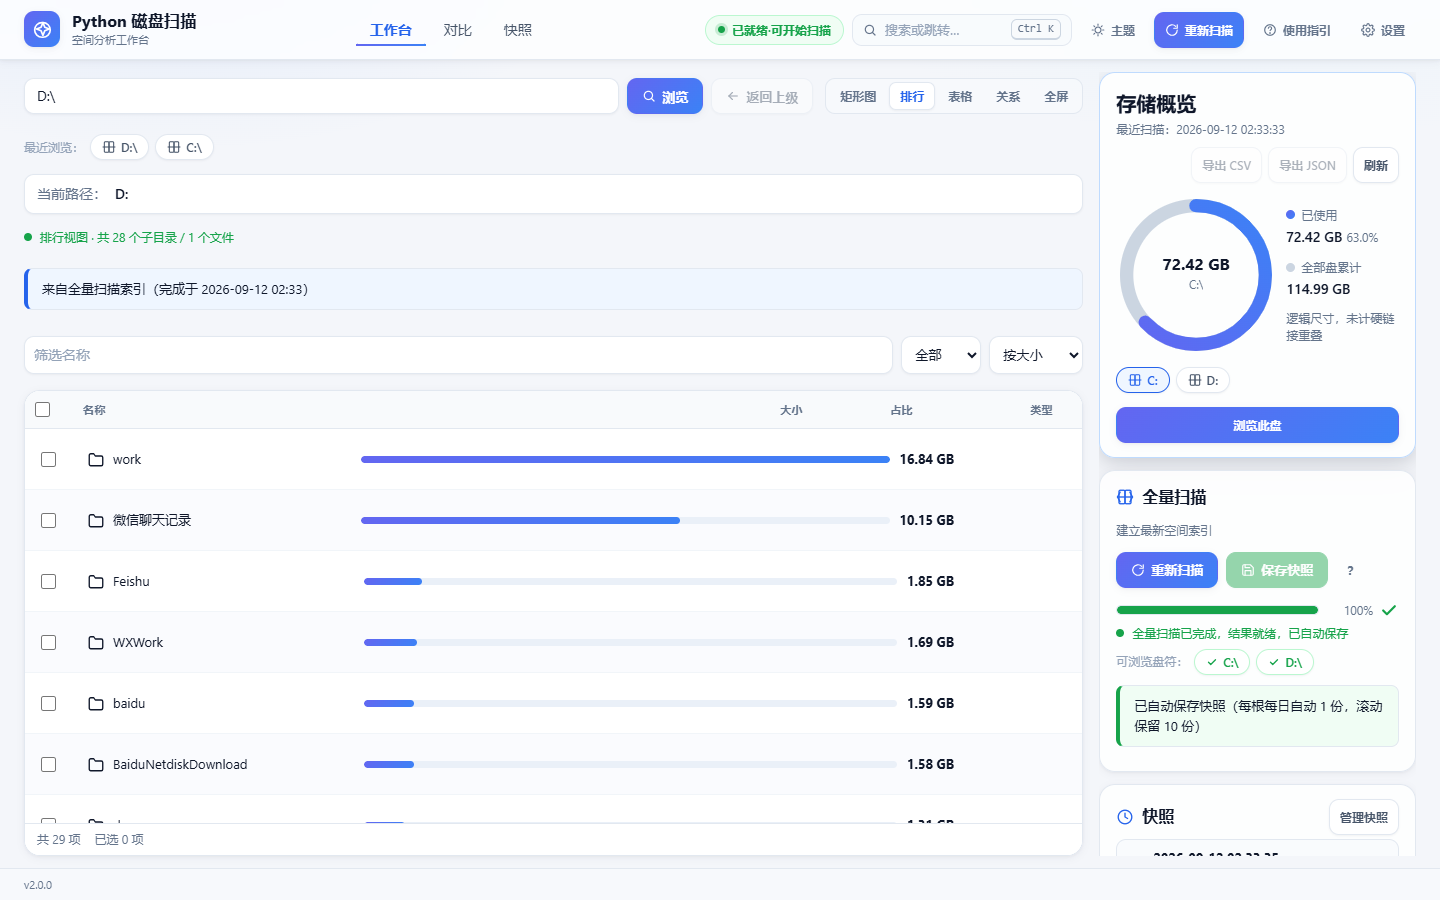
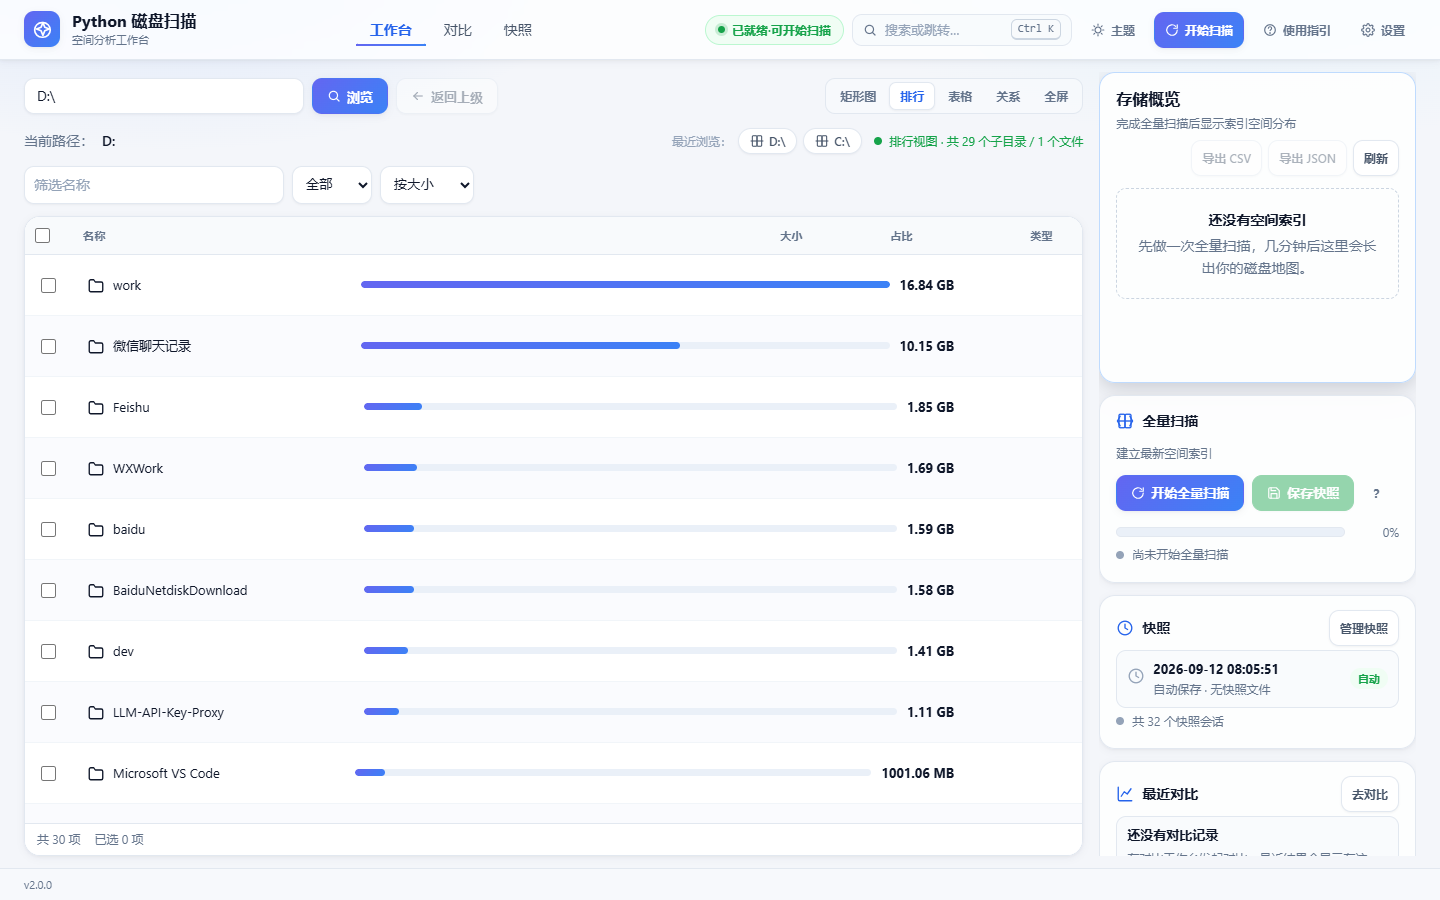
R1 第二轮（结构级）：布局压缩 + 矩形图淡彩卡片化 + 静态资源缓存破除
- index.html：css/js 引入加 ?v=r1.1 版本号（修「改了看不到」的浏览器缓存根因）
- app.py：/static/* 响应 Cache-Control: no-cache（after_request，仅静态路径）
- 工作台主列结构重组（id/class 断言面不变，smoke 21/21 仍绿）：
  · 路径输入收窄 280px + 视图 seg 同行；最近浏览/面包屑/状态行合并为单行 meta-row
  · 面包屑去框文本化；筛选行收薄（输入定宽 260px）；浏览历史下拉锚入 .path-row
- 卡片标题层级收敛（fs-lg→fs-md 650 字重；概览卡 fs-xl→fs-lg）
- 对比页控件组面板化（独立卡片行）；快照页根路径 code → 主色徽标
- viz/treemap.js：单元格纯色满铺 → R1 淡彩渐变圆角卡（JS 混色 26%→12%，
  彩色细边，hover 主色描边+提亮叠层，文字走 --treemap-ink，GAP 1→4）
- tokens.css：aurora 氛围光浓度提升（light .10→.14/.16，dark .08/.06→.14/.10）
- 验证：unittest 356 绿；smoke suite=v2 21/21；亮暗双主题真实数据截图复核

diff --git a/web/static/css/style.css b/web/static/css/style.css
@@ -140,6 +140,13 @@ input:focus{outline:none;border-color:var(--primary);box-shadow:0 0 0 3px var(--
 .tool-row{flex:none;height:48px;display:flex;align-items:center;gap:12px;min-width:0}
 .path-row{flex:1;min-width:0;display:flex;align-items:center;gap:8px;position:relative} /* 阶段G G-3：下拉面板锚点 */
 .path-row input{min-width:0}
+.path-row #browse-root{max-width:280px}
+
+/* R1：元信息行（面包屑 + 最近浏览 chips + 状态行 三合一；替代原三条堆叠整行） */
+.meta-row{display:flex;align-items:center;gap:var(--space-3);flex-wrap:wrap;min-height:26px}
+.meta-row .breadcrumb{flex:1;min-width:0;margin:0;padding:0;background:transparent;border:0;box-shadow:none;min-height:0}
+.meta-row .chips-row{margin:0;flex:none}
+.meta-row .status-line{margin:0 0 0 auto;flex:none;max-width:40%}
 /* R1：视图工具栏升级为分段控件（seg）——容器药丸底 + 内部按钮无边框；
    激活态 = .btn-primary（JS 切换类名不变），改为「白底+主色字+细边」的 seg 选中片 */
 .view-toolbar{
@@ -296,9 +303,11 @@ input:focus{outline:none;border-color:var(--primary);box-shadow:0 0 0 3px var(--
 .session-head{display:flex;align-items:center;justify-content:space-between;gap:var(--space-2);min-width:0}
 .session-title{display:flex;align-items:center;gap:var(--space-2);font-weight:600;min-width:0}
 .session-sub{font-size:var(--fs-xs);color:var(--faint);word-break:break-all}
-.session-roots{list-style:none;margin:var(--space-2) 0 0;padding:0;display:flex;flex-direction:column;gap:var(--space-2);font-size:var(--fs-xs)}
-.session-roots li{display:flex;align-items:center;gap:var(--space-2);min-width:0;flex-wrap:wrap}
-.session-roots code{font-size:var(--fs-xs);background:var(--card-soft);border:1px solid var(--border);border-radius:var(--radius-sm);padding:2px var(--space-2);word-break:break-all;color:var(--text-2)}
+.session-roots{list-style:none;margin:var(--space-2) 0 0;padding:0;display:flex;flex-direction:column;gap:var(--space-1);font-size:var(--fs-xs)}
+.session-roots li{display:flex;align-items:center;gap:var(--space-2);min-width:0;flex-wrap:wrap;padding:6px var(--space-2);border-radius:var(--radius-md)}
+.session-roots li:hover{background:var(--row-alt)}
+/* R1：根路径 code 升级为彩色盘符徽标（primary-soft 底 + 主色字 + 圆角） */
+.session-roots code{font-size:var(--fs-xs);font-weight:600;background:var(--primary-soft);border:1px solid var(--primary-border);border-radius:var(--radius-sm);padding:2px var(--space-2);word-break:break-all;color:var(--primary)}
 .skip-reason{color:var(--warning);cursor:help}
 /* P6（D6-2/变更集3）：会话行 = 「盘符 · 大小」正文 + 行尾动作；原始文件名进「详情」 */
 .session-root-row{padding:var(--space-1) 0}
@@ -323,7 +332,14 @@ input:focus{outline:none;border-color:var(--primary);box-shadow:0 0 0 3px var(--
    P5（D5-1/D5-2）：原「基线 datalist + 目标只读」两控件改为
    「对比基准（历史快照）下拉 + 当前磁盘状态只读文本行」。 */
 /* ============================================================ */
-.page-head-compare{min-height:64px}
+.page-head-compare{min-height:0}
+/* R1：控件组面板化——独立卡片行（原散排在页头右侧，观感 demo） */
+.page-head-compare{flex-wrap:wrap}
+.page-head-compare .compare-controls{
+  flex:1 1 100%;justify-content:flex-start;
+  background:var(--card);border:1px solid var(--border);border-radius:var(--radius-card);
+  padding:var(--space-2) var(--space-4);box-shadow:var(--elev-1);
+}
 .page-head-compare .page-sub{white-space:nowrap;overflow:hidden;text-overflow:ellipsis;max-width:400px}
 .compare-controls{display:flex;align-items:center;gap:var(--space-3);flex:none;min-width:0;flex-wrap:wrap;justify-content:flex-end}
 .compare-ctl{display:flex;align-items:center;gap:var(--space-2);font-size:var(--fs-xs);color:var(--muted);white-space:nowrap}
@@ -569,11 +585,12 @@ input:focus{outline:none;border-color:var(--primary);box-shadow:0 0 0 3px var(--
    右栏的 .card 是玻璃底（--card-glass），两页新卡片原语以更高特异度收回，
    保证「五类卡片计算样式全等」在实测里成立（p06 判据②）。 */
 .page-compare .card,.page-snapshots .card{background:var(--card)}
-.card-head{display:flex;align-items:baseline;gap:10px;flex-wrap:wrap}
+.card-head{display:flex;align-items:center;gap:10px;flex-wrap:wrap}
 /* P3/D3-4：卡标题按「整词」断行（word-break:keep-all）——CJK 默认逐字可断，
    标题被挤压时会竖排成每行 1–2 字；keep-all 后标题成为不可分单元，
-   配合各卡头的 flex-wrap 换取「换行而非竖排」 */
-.card-head h2{display:flex;align-items:center;gap:8px;margin:0;font-size:var(--fs-lg);word-break:keep-all}
+   配合各卡头的 flex-wrap 换取「换行而非竖排」
+   R1：卡标题收敛为 fs-md/650（面板标题层级，原 fs-lg 视觉过重） */
+.card-head h2{display:flex;align-items:center;gap:8px;margin:0;font-size:var(--fs-md);font-weight:650;word-break:keep-all}
 .card-head h2 .icon{color:var(--primary)}
 .card-sub{margin:2px 0 0;font-size:var(--fs-xs);color:var(--muted);width:100%}
 
@@ -594,7 +611,7 @@ input:focus{outline:none;border-color:var(--primary);box-shadow:0 0 0 3px var(--
    动作组 flex:none（按钮文本 nowrap，见 .btn——绝不被压窄到裁字），
    一行放不下时整体换行到第二行，而不是挤压标题 */
 .overview-head > div:first-child{flex:1 1 auto;min-width:0}
-.overview-head h2{margin:0;font-size:var(--fs-xl);word-break:keep-all}
+.overview-head h2{margin:0;font-size:var(--fs-lg);font-weight:650;word-break:keep-all}
 .overview-head p{margin:2px 0 0;color:var(--muted);font-size:var(--fs-xs);overflow-wrap:anywhere}
 .overview-actions{display:flex;flex-wrap:wrap;gap:6px;flex:none;margin-left:auto}
 .overview-roots{display:block;margin-top:var(--space-3)}
@@ -826,12 +843,14 @@ input:focus{outline:none;border-color:var(--primary);box-shadow:0 0 0 3px var(--
 /* list：面包屑 / 状态行 / 目录表 / 排行行 / 空态 / 筛选      */
 /* ============================================================ */
 
-.browse-filters{display:flex;gap:8px;margin:8px 0}
+/* R1：筛选行收薄（输入框定宽、select 紧凑，原为整行大通栏） */
+.browse-filters{display:flex;gap:8px;margin:4px 0}
 .browse-filters input,.browse-filters select{
   padding:7px 9px;border:1px solid var(--border);border-radius:var(--radius-ctl);
   background:var(--card);color:var(--text);box-shadow:var(--shadow-sm);
 }
-.browse-filters input{flex:1}
+.browse-filters input{flex:0 1 260px;min-width:120px}
+.browse-filters select{flex:none}
 
 .breadcrumb{
   display:flex;align-items:center;gap:2px;flex-wrap:wrap;margin:2px 0;

diff --git a/web/static/js/app/viz/treemap.js b/web/static/js/app/viz/treemap.js
@@ -178,7 +178,7 @@ export function nearestFocusIndex(rects, from, dx, dy) {
     return best;
 }
 
-const GAP = 1;               // 块间隙（几何常量，非动画参数）
+const GAP = 4;               // 块间隙（几何常量，非动画参数；R1：1→4 卡片间隔）
 const LABEL_H1 = 48;         // 三级标签：≥48px 全量标签
 const LABEL_H2 = 24;         // 24–48px 仅名称；<24 无
 const CROSSFADE_THRESHOLD = 1500; // >1500 块：关小标签层 + 整画布 240ms 交叉淡化
@@ -328,6 +328,28 @@ export function createTreemap(host, opts = {}) {
     }
 
     /* ---- 绘制 ---- */
+    /* R1：单元格 = 色板淡彩渐变卡（圆角 + 彩色细边 + 深墨文字），替代旧纯色满铺。
+       canvas 无法消费 color-mix()，此处 JS 侧混色：card 底 + tc 22%→6% 垂直渐变，
+       描边 tc 30%；暗色加深一档（30%→16%）。文字色走 --treemap-ink token。 */
+    function hexRgb(hex) {
+        const m = /^#([0-9a-f]{6})$/i.exec(String(hex).trim());
+        if (!m) return null;
+        const n = parseInt(m[1], 16);
+        return [(n >> 16) & 255, (n >> 8) & 255, n & 255];
+    }
+    function mixHex(a, b, t) { // t = a 的权重
+        const ca = hexRgb(a), cb = hexRgb(b);
+        if (!ca || !cb) return a;
+        const r = Math.round(ca[0] * t + cb[0] * (1 - t));
+        const g = Math.round(ca[1] * t + cb[1] * (1 - t));
+        const bl = Math.round(ca[2] * t + cb[2] * (1 - t));
+        return `rgb(${r},${g},${bl})`;
+    }
+    function rgba(hex, a) {
+        const c = hexRgb(hex);
+        return c ? `rgba(${c[0]},${c[1]},${c[2]},${a})` : hex;
+    }
+
     function paintTile(t, r, alpha, scale, hover) {
         if (alpha <= 0) return;
         const g = GAP;
@@ -345,16 +367,30 @@ export function createTreemap(host, opts = {}) {
             sctx.scale(scale, scale);
             sctx.translate(-cx, -cy);
         }
-        sctx.fillStyle = t.color;
-        sctx.fillRect(x, y, w, h);
-        if (dark) {
-            sctx.fillStyle = "rgba(255,255,255,0.08)"; // §3.4：暗色整块叠 8% 白
-            sctx.fillRect(x, y, w, h);
-        }
+        const card = cssVar("--card") || "#ffffff";
+        const top = mixHex(t.color, card, dark ? 0.34 : 0.26);
+        const bot = mixHex(t.color, card, dark ? 0.18 : 0.12);
+        const grad = sctx.createLinearGradient(x, y, x, y + h);
+        grad.addColorStop(0, top);
+        grad.addColorStop(1, bot);
+        const rad = Math.min(8, w / 2, h / 2);
+        sctx.beginPath();
+        if (sctx.roundRect) sctx.roundRect(x, y, w, h, rad);
+        else sctx.rect(x, y, w, h);
+        sctx.fillStyle = grad;
+        sctx.fill();
+        sctx.strokeStyle = rgba(t.color, dark ? 0.5 : 0.32);
+        sctx.lineWidth = 1;
+        sctx.stroke();
         if (hover) {
+            sctx.beginPath();
+            if (sctx.roundRect) sctx.roundRect(x, y, w, h, rad);
+            else sctx.rect(x, y, w, h);
+            sctx.fillStyle = rgba(t.color, 0.12);
+            sctx.fill();
             sctx.strokeStyle = cssVar("--primary") || "#2563eb";
             sctx.lineWidth = 2;
-            sctx.strokeRect(x + 1, y + 1, Math.max(0, w - 2), Math.max(0, h - 2));
+            sctx.stroke();
         }
         sctx.restore();
     }
@@ -379,11 +415,12 @@ export function createTreemap(host, opts = {}) {
     }
     function drawLabels() {
         const bigOnly = layout.length > CROSSFADE_THRESHOLD; // >1500 块：关小标签层
-        const ink = cssVar("--on-primary") || "#ffffff";
+        const ink = cssVar("--treemap-ink") || "#0f172a"; // R1：淡彩块上深墨文字（原 --on-primary 白字配纯色块）
+        const inkSub = cssVar("--text-2") || ink;
         for (const t of layout) {
             if (t.h < LABEL_H1) {
                 if (bigOnly || t.h < LABEL_H2) continue; // 24–48 仅名称；<24 无；>1500 只留 ≥48
-                const pad = 4;
+                const pad = 7;
                 sctx.font = labelFont(false);
                 sctx.textBaseline = "top";
                 const w = t.w - pad * 2;
@@ -394,7 +431,7 @@ export function createTreemap(host, opts = {}) {
                 sctx.fillText(txt, t.x + pad, Math.max(t.y + 4, t.y + (t.h - 12) / 2));
                 continue;
             }
-            const pad = 5;
+            const pad = 8;
             const innerW = t.w - pad * 2;
             if (innerW < 20) continue;
             sctx.font = labelFont(true);
@@ -406,6 +443,7 @@ export function createTreemap(host, opts = {}) {
             if (t.h >= LABEL_H1 + 14) {
                 if (innerW < 40) continue;
                 sctx.font = labelFont(false);
+                sctx.fillStyle = inkSub;
                 const sub = humanBytes(t.size) + " · " + (t.pct * 100).toFixed(1) + "%";
                 const txt2 = ellipsize(sub, innerW);
                 if (txt2) sctx.fillText(txt2, t.x + pad, t.y + pad + 15);

diff --git a/web/static/js/app/pages/workspace.js b/web/static/js/app/pages/workspace.js
@@ -1224,6 +1224,8 @@ const WORKSPACE_HTML =
     '<button id="btn-back" class="btn" disabled>' +
     '<svg class="icon-sm" viewBox="0 0 24 24" fill="none" stroke="currentColor" stroke-width="2" stroke-linecap="round" stroke-linejoin="round"><path d="M19 12H5"/><path d="m11 18-6-6 6-6"/></svg>' +
     '返回上级</button>' +
+    '<!-- 浏览历史下拉面板（R1：移入 .path-row——绝对定位锚定路径行，原位于 main-col 顶层时锚点漂移） -->' +
+    '<div id="browse-history" class="browse-history-panel hidden" role="listbox" aria-label="浏览历史"></div>' +
     '</div>' +
     '<!-- [N10] 视图工具栏位：三视图切换（U2.2 矩形图/排行/表格）+ 合并阈值 −/+（D11，仅矩形图）+ 全屏（L3-8）；P3（D3-6）密度开关已整体删除 -->' +
     '<div class="view-toolbar" aria-label="视图切换">' +
@@ -1239,11 +1241,13 @@ const WORKSPACE_HTML =
     '<button id="btn-view-fullscreen" class="btn btn-sm" aria-pressed="false" title="视图区全屏（Esc 退出）">全屏</button>' +
     '</div></div>' +
 
-    '<!-- 最近访问 / 浏览历史 / 面包屑 / 状态（阶段G G-3：浏览历史迁下拉面板，#browse-history 由 chips 行改为下拉面板容器；F07 时钟按钮形态落地） -->' +
-    '<div id="recent-roots" class="chips-row hidden"></div>' +
-    '<div id="browse-history" class="browse-history-panel hidden" role="listbox" aria-label="浏览历史"></div>' +
+    '<!-- 最近访问 / 面包屑 / 状态（阶段G G-3：浏览历史迁下拉面板，已锚入 .path-row；F07 时钟按钮形态落地） -->' +
+    '<!-- R1：元信息行——面包屑（去框文本化）+ 最近浏览 chips + 状态行，三合一行内布局 -->' +
+    '<div class="meta-row">' +
     '<nav id="breadcrumb" class="breadcrumb" aria-label="路径导航"><span class="muted">当前路径：</span><span class="crumb-current">-</span></nav>' +
+    '<div id="recent-roots" class="chips-row hidden"></div>' +
     '<div id="browse-status" class="status-line" role="status"><span class="dot"></span><span id="browse-status-text">输入路径后点击「浏览」开始</span></div>' +
+    '</div>' +
     '<div id="browse-guide" class="notice notice-warn hidden" role="status">' +
     '<b id="guide-title">Everything 尚未就绪</b>' +
     '<p id="guide-msg">正在等待 Everything 就绪（最长约 20 秒），请勿重复点击。正在加载索引，最长约 20 秒。</p>' +

diff --git a/web/static/css/tokens.css b/web/static/css/tokens.css
@@ -78,7 +78,7 @@
   --c6:#eab308; --c7:#f97316; --c8:#ef4444; --c9:#ec4899; --c10:#8b5cf6;
 }
 :root[data-theme="light"]{
-  --bg:#f4f6fa; --bg-aurora-1:rgba(59,130,246,.10); --bg-aurora-2:rgba(125,211,252,.10);
+  --bg:#f4f6fa; --bg-aurora-1:rgba(59,130,246,.14); --bg-aurora-2:rgba(125,211,252,.16);
   --card:#ffffff; --card-glass:rgba(255,255,255,.86);
   --text:#0f172a; --text-2:#475569; --muted:#64748b; --faint:#94a3b8;
   --border:#e2e8f0; --border-strong:#cbd5e1;
@@ -115,7 +115,7 @@
   --treemap-ink:#0f172a;
 }
 :root[data-theme="dark"]{
-  --bg:#0b1020; --bg-aurora-1:rgba(124,92,255,.08); --bg-aurora-2:rgba(56,189,248,.06);
+  --bg:#0b1020; --bg-aurora-1:rgba(124,92,255,.14); --bg-aurora-2:rgba(56,189,248,.10);
   --card:#121a2e; --card-glass:rgba(18,26,46,.72);
   --text:#e5e7eb; --text-2:#cbd5e1; --muted:#94a3b8; --faint:#64748b;
   --border:rgba(255,255,255,.08); --border-strong:rgba(255,255,255,.16);

diff --git a/web/templates/index.html b/web/templates/index.html
@@ -21,8 +21,8 @@
         document.documentElement.setAttribute("data-theme", t);
       })();
     </script>
-    <link rel="stylesheet" href="{{ url_for('static', filename='css/tokens.css') }}">
-    <link rel="stylesheet" href="{{ url_for('static', filename='css/style.css') }}">
+    <link rel="stylesheet" href="{{ url_for('static', filename='css/tokens.css') }}?v=r1.1">
+    <link rel="stylesheet" href="{{ url_for('static', filename='css/style.css') }}?v=r1.1">
 </head>
 <body>
 
@@ -309,6 +309,6 @@
 
 <div id="toast-container" class="toast-container" aria-live="polite"></div>
 
-<script type="module" src="{{ url_for('static', filename='js/app/main.js') }}"></script>
+<script type="module" src="{{ url_for('static', filename='js/app/main.js') }}?v=r1.1"></script>
 </body>
 </html>

diff --git a/app.py b/app.py
@@ -64,6 +64,15 @@ app = Flask(
 )
 
 
+@app.after_request
+def _static_no_cache(resp):
+    """R1：静态资源禁启发式缓存——CSS/JS 更新后刷新即生效（本地工具无 CDN 场景，
+    no-cache 仅触发条件请求，304 成本可忽略；API 响应不受影响）。"""
+    if request.path.startswith("/static/"):
+        resp.headers["Cache-Control"] = "no-cache"
+    return resp
+
+
 def _json_error(message, status=400, code=None, detail=None, **extra):
     """统一错误响应（P12·W1.3 additive 扩展）。
 
